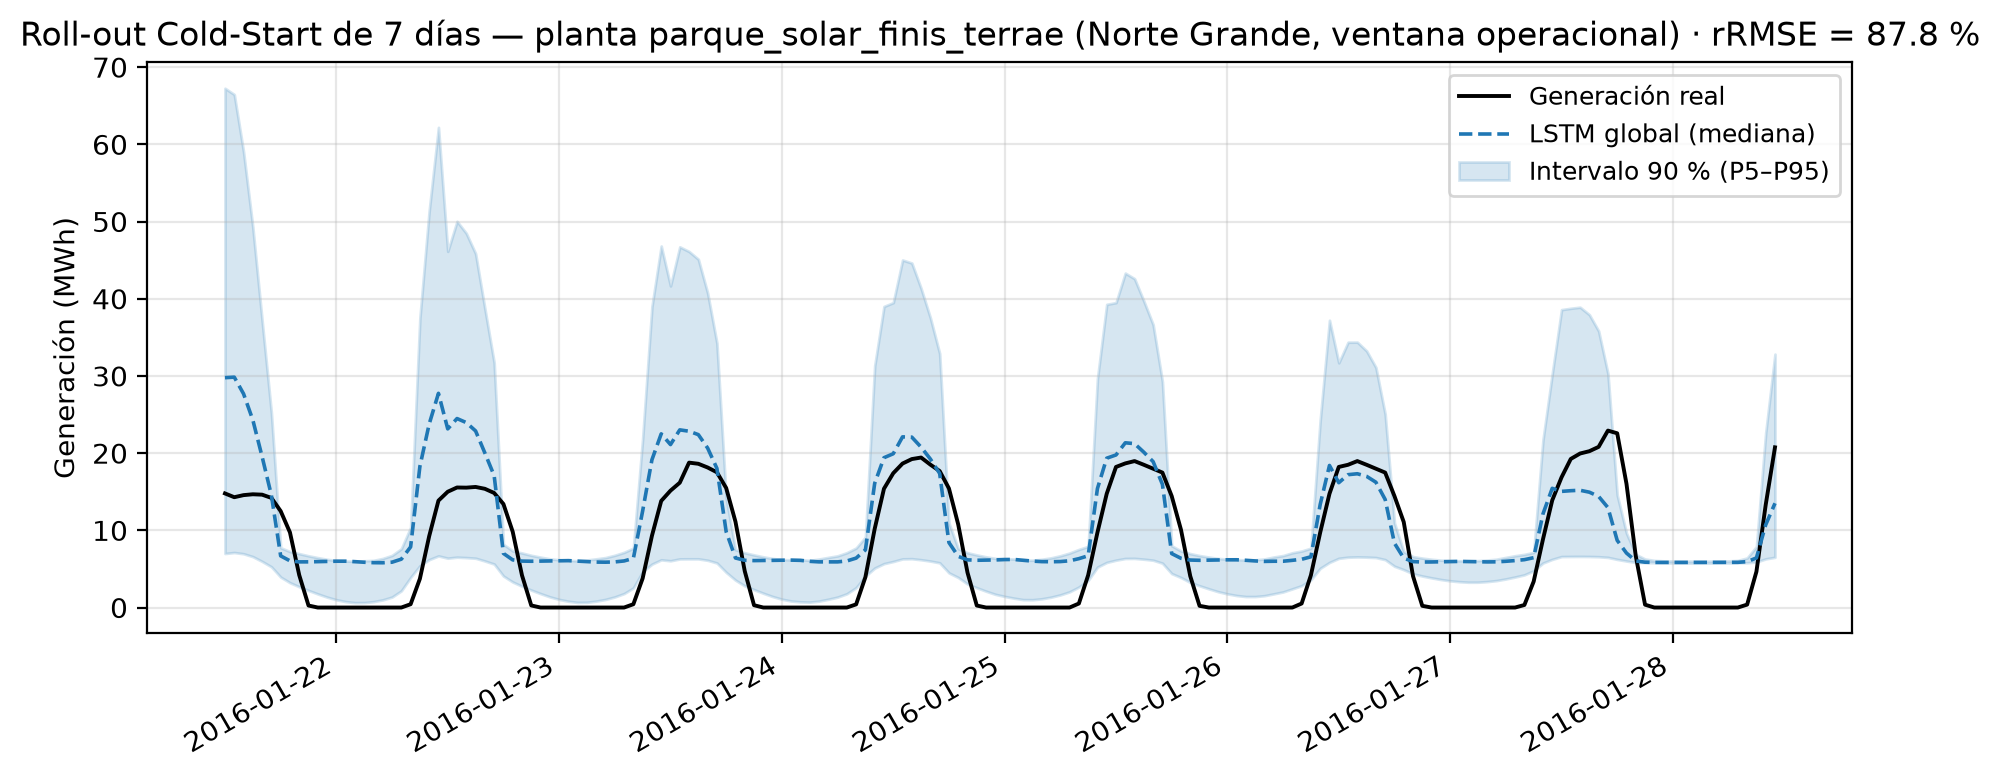
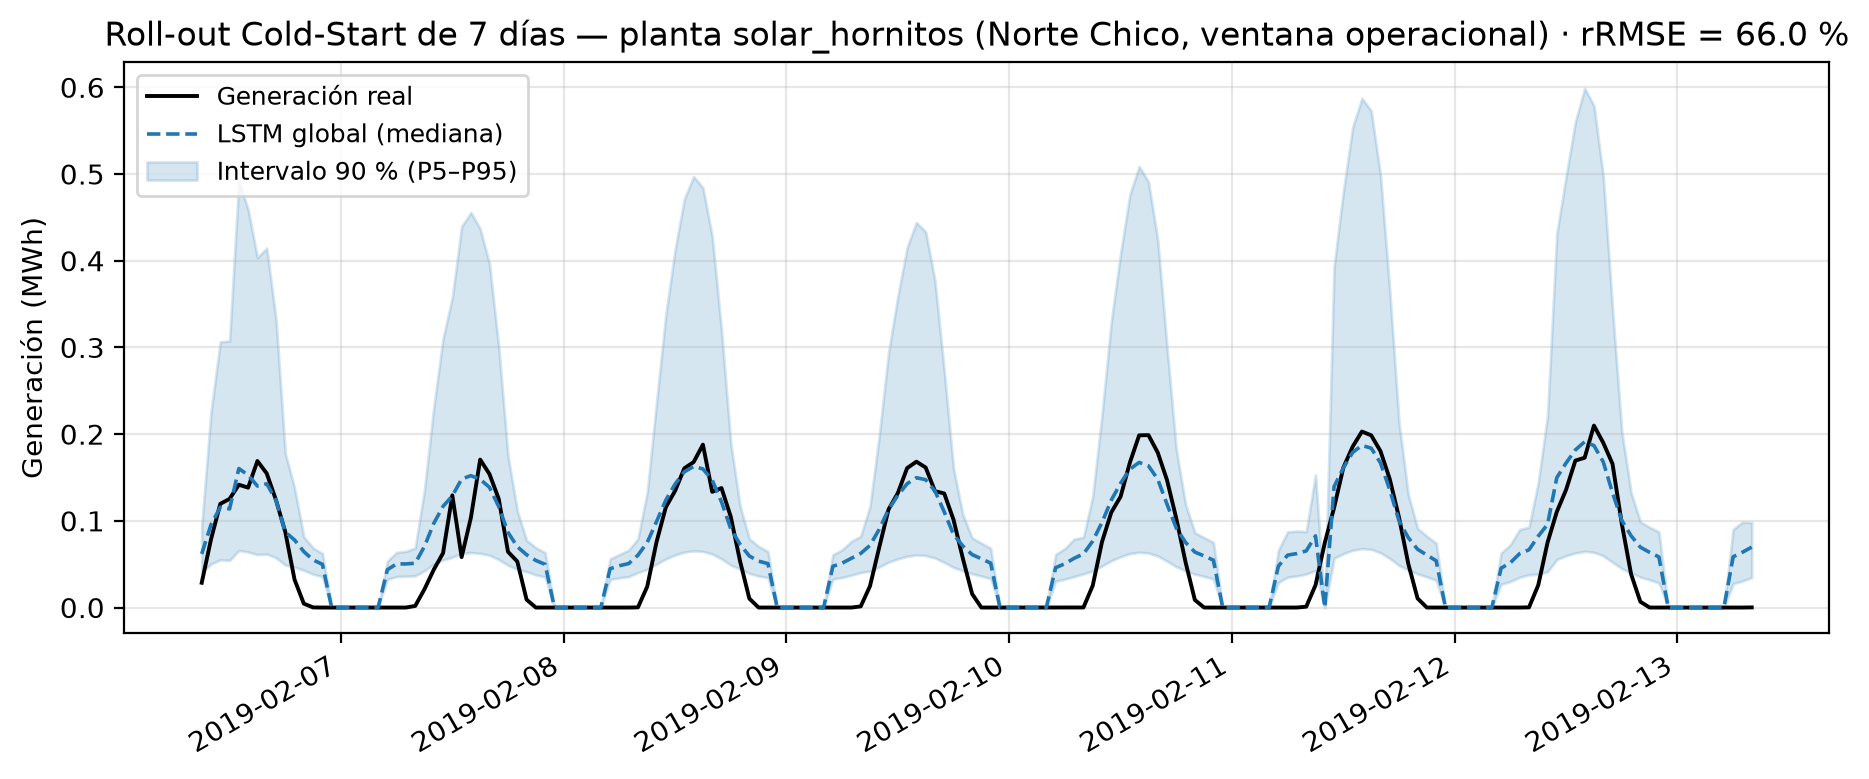
feat: corridas half y total completas (diseño auditado) + artefactos de tesis
- half (47 plantas) y total (94 plantas) EXIT 0, 0 errores, 0 warnings.
- Base completa 2014-2024, fp32, grilla canónica, XGB cuantílico, prior diurno.
- report_tesis regenerado desde total: 94 plantas, 8 modelos, 6 ventanas.

diff --git a/latex-tesis/tablas/tab_anexo_plantas.tex b/latex-tesis/tablas/tab_anexo_plantas.tex
@@ -4,53 +4,87 @@
 Macrozona & Planta & XGB local & XGB global & LSTM & TFT \\
 \midrule
 \endhead
-Norte Chico & amparo\_del\_sol & 36.3 & 55.2 & 124.9 & 135.4 \\
-Norte Chico & cachiyuyo\_solar\_2 & 69.3 & 80.5 & 117.4 & 149.0 \\
-Norte Chico & canesa\_solar\_i & 137.3 & 160.2 & 184.0 & -- \\
-Norte Chico & chalinga\_solar & 28.6 & 60.9 & 142.9 & 154.5 \\
-Norte Chico & illapel\_5x & 30.4 & 62.1 & 146.8 & 156.7 \\
-Norte Chico & luna\_del\_norte & 19.1 & 56.6 & 133.0 & 147.0 \\
-Norte Chico & norte\_chico\_i & 117.5 & 139.9 & 73.1 & 120.4 \\
-Norte Chico & parque\_solar\_fotovoltaico\_maranon & 33.9 & 463.7 & 56.4 & 125.1 \\
-Norte Chico & pfv\_malgarida & 124.5 & 111.4 & 175.6 & 182.0 \\
-Norte Grande & andes\_solar & 40.5 & 43.7 & 128.2 & 140.7 \\
-Norte Grande & conejo\_solar & 19.0 & 42.6 & 119.5 & 134.2 \\
-Norte Grande & fv\_bolero & 154.2 & 599.8 & 124.9 & 157.7 \\
-Norte Grande & lalackama & 14.0 & 18.6 & 114.9 & 131.6 \\
-Norte Grande & lalackama\_2 & 14.7 & 92.3 & 97.4 & 132.6 \\
-Norte Grande & pampa\_solar\_norte & 15.4 & 54.6 & 117.7 & 134.3 \\
-Norte Grande & parque\_solar\_finis\_terrae & 663.1 & 4393.3 & 706.8 & 654.6 \\
-Norte Grande & parque\_solar\_pampa\_camarones & 118.5 & 150.7 & 160.1 & 175.2 \\
-Norte Grande & pfv\_andes\_solar\_ii & 74.0 & 150.3 & 100.8 & 163.3 \\
-Zona Central & alto\_solar & 0.0 & 0.0 & 0.0 & 0.0 \\
-Zona Central & altos\_de\_til\_til & 156.9 & 895.5 & 146.3 & 190.2 \\
-Zona Central & chancon & 43.9 & 50.9 & 67.5 & 129.4 \\
-Zona Central & chimbarongo & 63.8 & 70.1 & 105.3 & 134.4 \\
-Zona Central & crucero & 0.0 & 0.0 & 0.0 & 0.0 \\
-Zona Central & don\_eugenio & 43.9 & 58.1 & 105.5 & 131.1 \\
-Zona Central & donihue & 155.0 & 183.6 & 131.1 & 175.9 \\
-Zona Central & el\_pilpen & 34.5 & 60.2 & 111.0 & 130.0 \\
-Zona Central & el\_roble & 64.2 & 84.8 & 87.6 & 140.3 \\
-Zona Central & el\_sauce & 68.3 & 67.8 & 119.1 & 137.7 \\
-Zona Central & fotovolt\_solar\_i & 86.1 & 878.5 & 236.8 & 201.3 \\
-Zona Central & gr\_santa\_rosa & 85.8 & 89.6 & 121.6 & 156.5 \\
-Zona Central & la\_acacia & 0.0 & 0.0 & 0.0 & 0.0 \\
-Zona Central & la\_blanquina & 152.7 & 196.7 & 144.0 & 177.9 \\
-Zona Central & la\_frontera & 53.8 & 71.4 & 89.9 & 139.7 \\
-Zona Central & la\_lajuela & 90.9 & 86.9 & 85.3 & -- \\
-Zona Central & la\_manga\_i & 26.8 & 59.2 & 99.2 & 132.3 \\
-Zona Central & las\_perdices & 119.3 & 162.6 & 169.0 & 193.5 \\
-Zona Central & laurel & 142.9 & 182.5 & 262.8 & 248.9 \\
-Zona Central & lipangue & 94.3 & 77.0 & 70.6 & 124.8 \\
-Zona Central & los\_libertadores & 13.7 & 44.5 & 107.4 & 136.1 \\
-Zona Central & los\_patos & 0.0 & 0.0 & 0.0 & 0.0 \\
-Zona Central & luna & 103.4 & 138.2 & 221.1 & 97.1 \\
-Zona Central & peralillo & 51.9 & 57.5 & 110.1 & 134.3 \\
-Zona Central & pfv\_jose\_soler\_mallafre & 88.9 & 126.6 & 137.3 & 164.3 \\
-Zona Central & pfv\_marchigue\_ii & 82.7 & 104.8 & 117.1 & 136.5 \\
-Zona Central & pfv\_santa\_adriana & 146.9 & 190.9 & 209.4 & 198.0 \\
-Zona Central & pfv\_villa\_seca & 58.7 & 58.6 & 105.7 & 132.4 \\
-Zona Sur & las\_codornices & 67.2 & 172.9 & 121.7 & 157.0 \\
+Norte Chico & amparo\_del\_sol & 34.9 & 46.8 & 87.8 & 108.8 \\
+Norte Chico & cachiyuyo\_solar\_2 & 63.5 & 104.6 & 100.2 & 91.1 \\
+Norte Chico & canesa\_solar\_i & 152.1 & 151.7 & 343.5 & 171.5 \\
+Norte Chico & chalinga\_solar & 31.9 & 50.2 & 74.0 & 64.3 \\
+Norte Chico & illapel\_5x & 32.5 & 56.6 & 96.3 & 80.7 \\
+Norte Chico & luna\_del\_norte & 21.7 & 40.6 & 99.7 & 87.0 \\
+Norte Chico & norte\_chico\_i & 57.4 & 227.1 & 117.6 & 90.9 \\
+Norte Chico & parque\_solar\_fotovoltaico\_maranon & 164.9 & 579.5 & 494.0 & 87.6 \\
+Norte Chico & pfv\_malgarida & 115.3 & 122.0 & 144.7 & 156.1 \\
+Norte Chico & pmg\_castilla & 64.8 & 85.3 & 117.1 & 129.1 \\
+Norte Chico & pmgd\_pfv\_olivia & 87.8 & 59.1 & 115.0 & 114.7 \\
+Norte Chico & pmgd\_pfv\_olivier & 58.3 & 60.5 & 109.0 & 120.2 \\
+Norte Chico & pmgd\_pfv\_sofia & 2924.7 & 3227.8 & 1688.3 & 1286.6 \\
+Norte Chico & sol\_del\_norte & 21.5 & 40.4 & 77.1 & 94.0 \\
+Norte Chico & solar\_antay & 292.5 & 486.0 & 243.4 & 274.5 \\
+Norte Chico & solar\_chuchini & 83.1 & 103.2 & 134.6 & 158.5 \\
+Norte Chico & solar\_diego\_de\_almagro & 109.9 & 750.0 & 132.0 & 265.4 \\
+Norte Chico & solar\_el\_romero & 52.4 & 48.5 & 98.0 & 79.6 \\
+Norte Chico & solar\_esperanza & 57.1 & 78.2 & 141.3 & 141.9 \\
+Norte Chico & solar\_javiera & 272.7 & 440.9 & 100.2 & 207.4 \\
+Norte Chico & solar\_la\_silla & 228.6 & 310.1 & 179.4 & 178.2 \\
+Norte Chico & solar\_las\_terrazas & 101.9 & 60.2 & 149.9 & 108.1 \\
+Norte Chico & solar\_llano\_de\_llampos & 70.3 & 82.2 & 127.3 & 131.6 \\
+Norte Chico & solar\_psf\_lomas\_coloradas & 165.8 & 190.9 & 193.8 & 170.6 \\
+Norte Chico & solar\_san\_andres & 114.3 & 70.8 & 137.5 & 106.8 \\
+Norte Chico & solar\_santa\_cecilia & 111.9 & 107.5 & 127.6 & 156.8 \\
+Norte Chico & talhuen & 44.2 & 58.8 & 103.7 & 105.5 \\
+Norte Chico & tambo\_real & 44.4 & 291.2 & 70.2 & 166.9 \\
+Norte Chico & valle\_solar\_este\_2 & 34.7 & 52.8 & 100.0 & 87.6 \\
+Norte Chico & valle\_solar\_oeste\_2 & 57.2 & 73.3 & 102.9 & 131.1 \\
+Norte Grande & andes\_solar & 50.4 & 44.0 & 83.1 & 72.3 \\
+Norte Grande & conejo\_solar & 20.9 & 49.1 & 104.9 & 113.0 \\
+Norte Grande & fv\_bolero & 183.6 & 539.8 & 376.3 & 273.7 \\
+Norte Grande & lalackama & 17.8 & 25.2 & 85.2 & 104.2 \\
+Norte Grande & lalackama\_2 & 19.1 & 74.2 & 91.6 & 108.4 \\
+Norte Grande & pampa\_solar\_norte & 20.4 & 59.3 & 103.5 & 89.2 \\
+Norte Grande & parque\_solar\_finis\_terrae & 1873.4 & 3917.1 & 1790.4 & 2112.0 \\
+Norte Grande & parque\_solar\_pampa\_camarones & 344.8 & 178.0 & 184.9 & 192.4 \\
+Norte Grande & pfv\_andes\_solar\_ii & 73.7 & 168.1 & 154.9 & 159.1 \\
+Norte Grande & solar\_el\_aguila\_i & 37.1 & 89.1 & 82.3 & 99.1 \\
+Norte Grande & solar\_jama & 32.1 & 24.6 & 74.8 & 82.4 \\
+Norte Grande & uribe\_solar & 138.2 & 162.5 & 126.2 & 126.0 \\
+Zona Central & altos\_de\_til\_til & 118.4 & 127.0 & 188.8 & 202.4 \\
+Zona Central & chancon & 47.3 & 52.9 & 84.8 & 66.0 \\
+Zona Central & chimbarongo & 73.5 & 83.2 & 85.9 & 98.5 \\
+Zona Central & don\_eugenio & 48.5 & 55.8 & 73.5 & 72.4 \\
+Zona Central & donihue & 146.3 & 212.4 & 246.7 & 164.7 \\
+Zona Central & el\_pilpen & 36.0 & 42.7 & 83.1 & 60.4 \\
+Zona Central & el\_roble & 73.0 & 75.9 & 91.1 & 93.9 \\
+Zona Central & el\_sauce & 77.5 & 72.2 & 92.7 & 80.1 \\
+Zona Central & fotovolt\_solar\_i & 111.8 & 154.5 & 362.0 & 288.0 \\
+Zona Central & gr\_santa\_rosa & 115.0 & 87.8 & 145.3 & 151.1 \\
+Zona Central & la\_blanquina & 156.8 & 250.6 & 226.7 & 210.8 \\
+Zona Central & la\_frontera & 68.4 & 61.2 & 122.8 & 91.7 \\
+Zona Central & la\_lajuela & 68.9 & 82.4 & 106.5 & 81.0 \\
+Zona Central & la\_manga\_i & 25.6 & 66.9 & 99.5 & 74.3 \\
+Zona Central & las\_perdices & 100.6 & 137.5 & 232.9 & 316.6 \\
+Zona Central & laurel & 145.4 & 131.9 & 279.4 & 326.1 \\
+Zona Central & lipangue & 47.7 & 67.0 & 97.6 & 127.2 \\
+Zona Central & los\_libertadores & 25.9 & 31.8 & 67.9 & 92.6 \\
+Zona Central & luna & 63.0 & 67.4 & 217.3 & 418.0 \\
+Zona Central & peralillo & 54.6 & 57.0 & 81.3 & 63.6 \\
+Zona Central & pfv\_jose\_soler\_mallafre & 106.5 & 112.6 & 125.9 & 116.5 \\
+Zona Central & pfv\_marchigue\_ii & 37.4 & 48.7 & 81.3 & 61.6 \\
+Zona Central & pfv\_santa\_adriana & 160.0 & 159.7 & 289.4 & 299.0 \\
+Zona Central & pfv\_villa\_seca & 60.7 & 51.4 & 80.1 & 78.5 \\
+Zona Central & pirque & 92.5 & 94.7 & 241.8 & 141.0 \\
+Zona Central & pmgd\_antonia\_solar & 88.6 & 82.1 & 258.8 & 139.1 \\
+Zona Central & pmgd\_fv\_barcelona & 165.2 & 195.2 & 189.4 & 139.0 \\
+Zona Central & portezuelo & 44.8 & 46.7 & 75.5 & 78.0 \\
+Zona Central & psf\_lo\_sierra & 38.6 & 69.2 & 115.3 & 117.6 \\
+Zona Central & pv\_ranguil & 175.3 & 267.6 & 416.0 & 272.5 \\
+Zona Central & quilapilun & 39.9 & 42.1 & 75.4 & 81.4 \\
+Zona Central & rla\_solar & 98.7 & 59.3 & 173.0 & 155.1 \\
+Zona Central & santiago\_solar & 34.5 & 64.0 & 76.7 & 77.5 \\
+Zona Central & solar\_loma\_los\_colorados & 118.7 & 137.5 & 110.9 & 136.5 \\
+Zona Central & talca & 159.0 & 439.1 & 484.2 & 321.9 \\
+Zona Central & tricahue\_2 & 148.9 & 92.6 & 141.0 & 119.2 \\
+Zona Central & valle\_de\_la\_luna\_ii & 43.8 & 44.5 & 75.2 & 93.6 \\
+Zona Central & villa\_prat & 56.2 & 58.6 & 85.2 & 74.0 \\
+Zona Sur & las\_codornices & 80.9 & 81.0 & 125.6 & 108.5 \\
 \bottomrule
 \end{longtable}
 }

diff --git a/latex-tesis/tablas/tab_resultados_raw.tex b/latex-tesis/tablas/tab_resultados_raw.tex
@@ -5,13 +5,13 @@
 Modelo & RMSE & sMAPE & rRMSE & RMSE & sMAPE & rRMSE & $n$ \\
  & (MWh) & (\%) & (\%) & (MWh) & (\%) & (\%) & \\
 \midrule
-XGBoost local & 0.69 & 122.6 & 49.3 & 0.57 & 113.6 & 64.2 & 47 \\
-LSTM local & 0.87 & 111.3 & 112.7 & 0.94 & 120.9 & 130.2 & 47 \\
-N-HiTS local & 1.06 & 122.7 & 156.2 & 1.37 & 136.3 & 157.2 & 42 \\
-XGBoost global & 0.93 & 95.2 & 67.1 & 1.08 & 96.8 & 80.5 & 47 \\
-LSTM global & 0.91 & 144.2 & 109.0 & 1.03 & 145.7 & 117.7 & 47 \\
-N-HiTS global & 1.04 & 120.9 & 156.1 & 1.37 & 135.5 & 157.3 & 45 \\
-TFT global & 1.16 & 162.6 & 142.2 & 1.27 & 159.0 & 137.7 & 45 \\
-Informer global & 1.07 & 164.9 & 142.3 & 1.24 & 163.8 & 143.0 & 47 \\
+XGBoost local & 0.39 & 56.8 & 59.2 & 0.53 & 52.2 & 70.3 & 94 \\
+LSTM local & 0.88 & 81.6 & 109.1 & 1.08 & 91.1 & 133.1 & 94 \\
+N-HiTS local & 0.65 & 68.8 & 73.3 & 0.81 & 70.1 & 89.5 & 94 \\
+XGBoost global & 0.76 & 44.3 & 74.2 & 0.65 & 45.2 & 81.0 & 94 \\
+LSTM global & 1.07 & 91.9 & 107.1 & 1.11 & 91.3 & 115.3 & 94 \\
+N-HiTS global & 1.04 & 100.8 & 140.3 & 1.26 & 108.8 & 154.7 & 94 \\
+TFT global & 0.87 & 90.1 & 107.7 & 0.96 & 87.4 & 116.5 & 94 \\
+Informer global & 0.89 & 91.5 & 108.7 & 0.95 & 93.6 & 112.5 & 94 \\
 \bottomrule
 \end{tabular}

diff --git a/latex-tesis/tablas/tab_resultados_operacional.tex b/latex-tesis/tablas/tab_resultados_operacional.tex
@@ -5,13 +5,13 @@
 Modelo & RMSE & sMAPE & rRMSE & RMSE & sMAPE & rRMSE & $n$ \\
  & (MWh) & (\%) & (\%) & (MWh) & (\%) & (\%) & \\
 \midrule
-XGBoost local & 0.41 & 108.5 & 38.8 & 0.48 & 109.1 & 68.7 & 15 \\
-LSTM local & 0.98 & 87.0 & 86.1 & 1.43 & 125.4 & 132.5 & 15 \\
-N-HiTS local & 2.38 & 176.9 & 160.6 & 2.25 & 164.8 & 170.2 & 13 \\
-XGBoost global & 0.83 & 101.0 & 62.6 & 1.02 & 107.4 & 86.2 & 15 \\
-LSTM global & 1.35 & 137.7 & 101.2 & 1.48 & 141.3 & 115.8 & 15 \\
-N-HiTS global & 2.06 & 147.2 & 143.4 & 1.88 & 150.7 & 163.7 & 14 \\
-TFT global & 2.13 & 164.7 & 144.5 & 1.97 & 156.3 & 150.5 & 14 \\
-Informer global & 1.80 & 166.1 & 142.7 & 1.96 & 165.3 & 153.2 & 15 \\
+XGBoost local & 0.35 & 51.4 & 40.6 & 0.50 & 51.5 & 62.2 & 33 \\
+LSTM local & 0.75 & 82.2 & 102.6 & 1.04 & 91.4 & 146.9 & 33 \\
+N-HiTS local & 0.71 & 56.9 & 73.6 & 0.87 & 69.1 & 104.0 & 33 \\
+XGBoost global & 0.61 & 39.8 & 77.5 & 0.55 & 40.7 & 95.4 & 33 \\
+LSTM global & 1.01 & 86.3 & 103.4 & 1.08 & 91.8 & 118.2 & 33 \\
+N-HiTS global & 1.28 & 95.8 & 130.6 & 1.31 & 96.9 & 150.4 & 33 \\
+TFT global & 0.90 & 89.5 & 110.2 & 0.97 & 96.2 & 133.1 & 33 \\
+Informer global & 0.86 & 82.2 & 96.9 & 0.89 & 89.0 & 129.3 & 33 \\
 \bottomrule
 \end{tabular}

diff --git a/latex-tesis/tablas/tab_estacional.tex b/latex-tesis/tablas/tab_estacional.tex
@@ -2,13 +2,15 @@
 \toprule
 Modelo & Verano & Otoño & Invierno & Primavera \\
 \midrule
-XGBoost local & 37.3 & 34.3 & 113.8 & 88.0 \\
-LSTM local & 104.7 & 147.1 & 173.3 & 169.9 \\
-N-HiTS local & 148.9 & 158.2 & 209.7 & 182.1 \\
-XGBoost global & 65.3 & 61.1 & 173.0 & 111.6 \\
-LSTM global & 105.6 & 109.2 & 154.1 & 133.4 \\
-N-HiTS global & 134.3 & 132.6 & 216.4 & 158.9 \\
-TFT global & 134.5 & 140.4 & 192.4 & 157.3 \\
-Informer global & 137.6 & 144.3 & 177.5 & 158.0 \\
+XGBoost local & 40.5 & 35.9 & 114.8 & 101.5 \\
+LSTM local & 94.1 & 139.6 & 166.1 & 155.1 \\
+N-HiTS local & 66.0 & 74.0 & 143.5 & 118.1 \\
+XGBoost global & 51.8 & 53.7 & 133.5 & 106.1 \\
+LSTM global & 93.9 & 97.0 & 186.3 & 136.2 \\
+N-HiTS global & 114.0 & 130.3 & 188.7 & 148.9 \\
+TFT global & 87.7 & 102.0 & 168.8 & 130.9 \\
+Informer global & 87.9 & 92.9 & 172.0 & 137.0 \\
+\midrule
+\textit{n plantas} & 94 & 92 & 93 & 94 \\
 \bottomrule
 \end{tabular}

diff --git a/latex-tesis/tablas/tab_probabilistico.tex b/latex-tesis/tablas/tab_probabilistico.tex
@@ -3,11 +3,13 @@
 Modelo & Cobertura 90\,\% & Pinball P05 & Pinball P95 \\
  & (ideal $\approx 0{,}90$) & (MWh) & (MWh) \\
 \midrule
-LSTM local & 0.595 & 0.062 & 0.385 \\
-N-HiTS local & 0.042 & 0.165 & 1.028 \\
-LSTM global & 0.381 & 0.122 & 0.259 \\
-N-HiTS global & 0.006 & 0.850 & 0.701 \\
-TFT global & 0.000 & 0.464 & 0.984 \\
-Informer global & 0.125 & 0.148 & 0.738 \\
+XGBoost local & 0.881 & 0.039 & 0.033 \\
+LSTM local & 0.845 & 0.041 & 0.211 \\
+N-HiTS local & 0.827 & 0.045 & 0.107 \\
+XGBoost global & 0.976 & 0.045 & 0.091 \\
+LSTM global & 0.512 & 0.212 & 0.140 \\
+N-HiTS global & 0.679 & 0.091 & 0.277 \\
+TFT global & 0.500 & 0.195 & 0.123 \\
+Informer global & 0.560 & 0.133 & 0.114 \\
 \bottomrule
 \end{tabular}

diff --git a/latex-tesis/tablas/tab_hparams.tex b/latex-tesis/tablas/tab_hparams.tex
@@ -2,9 +2,9 @@
 \toprule
 Arquitectura & Ventana entrada (h) & Parám. de dimensión & Valor & Tasa aprendizaje & Precisión \\
 \midrule
-LSTM & 168 & encoder\_hidden\_size & 64 & 2.76e-03 & fp32 \\
-N-HiTS & 168 & mlp\_units & 128 & 5.77e-04 & fp16 \\
-TFT & 168 & hidden\_size & 64 & 1.27e-03 & fp16 \\
-Informer & 168 & hidden\_size & 32 & 7.37e-04 & fp32 \\
+LSTM & 168 & encoder\_hidden\_size & 128 & 4.68e-03 & fp32 \\
+N-HiTS & 168 & mlp\_units & 64 & 5.89e-03 & fp32 \\
+TFT & 168 & hidden\_size & 32 & 1.83e-03 & fp32 \\
+Informer & 168 & hidden\_size & 64 & 2.74e-04 & fp32 \\
 \bottomrule
 \end{tabular}

diff --git a/latex-tesis/tablas/tab_params.tex b/latex-tesis/tablas/tab_params.tex
@@ -1,0 +1,14 @@
+\begin{tabular}{lrrc}
+\toprule
+Modelo & Parámetros & rRMSE roll-out (\%) & Tipo de parámetro \\
+\midrule
+XGBoost local & 18.156 & 70.3 & nodos de árbol \\
+LSTM local & 223.110 & 133.1 & pesos entrenables \\
+N-HiTS local & 337.017 & 89.5 & pesos entrenables \\
+XGBoost global & 18.418 & 81.0 & nodos de árbol \\
+LSTM global & 223.110 & 115.3 & pesos entrenables \\
+N-HiTS global & 337.017 & 154.7 & pesos entrenables \\
+TFT global & 173.194 & 116.5 & pesos entrenables \\
+Informer global & 94.630 & 112.5 & pesos entrenables \\
+\bottomrule
+\end{tabular}

diff --git a/latex-tesis/tablas/tab_estacional_day1.tex b/latex-tesis/tablas/tab_estacional_day1.tex
@@ -1,0 +1,16 @@
+\begin{tabular}{lrrrr}
+\toprule
+Modelo & Verano & Otoño & Invierno & Primavera \\
+\midrule
+XGBoost local & 21.9 & 22.4 & 68.6 & 66.1 \\
+LSTM local & 57.9 & 124.3 & 110.1 & 126.4 \\
+N-HiTS local & 50.7 & 50.5 & 100.8 & 72.0 \\
+XGBoost global & 44.8 & 43.7 & 83.5 & 74.1 \\
+LSTM global & 91.2 & 88.0 & 114.1 & 109.4 \\
+N-HiTS global & 106.5 & 121.1 & 152.2 & 133.3 \\
+TFT global & 84.1 & 88.1 & 122.5 & 110.3 \\
+Informer global & 82.1 & 88.4 & 112.2 & 110.4 \\
+\midrule
+\textit{n plantas} & 94 & 92 & 93 & 94 \\
+\bottomrule
+\end{tabular}
